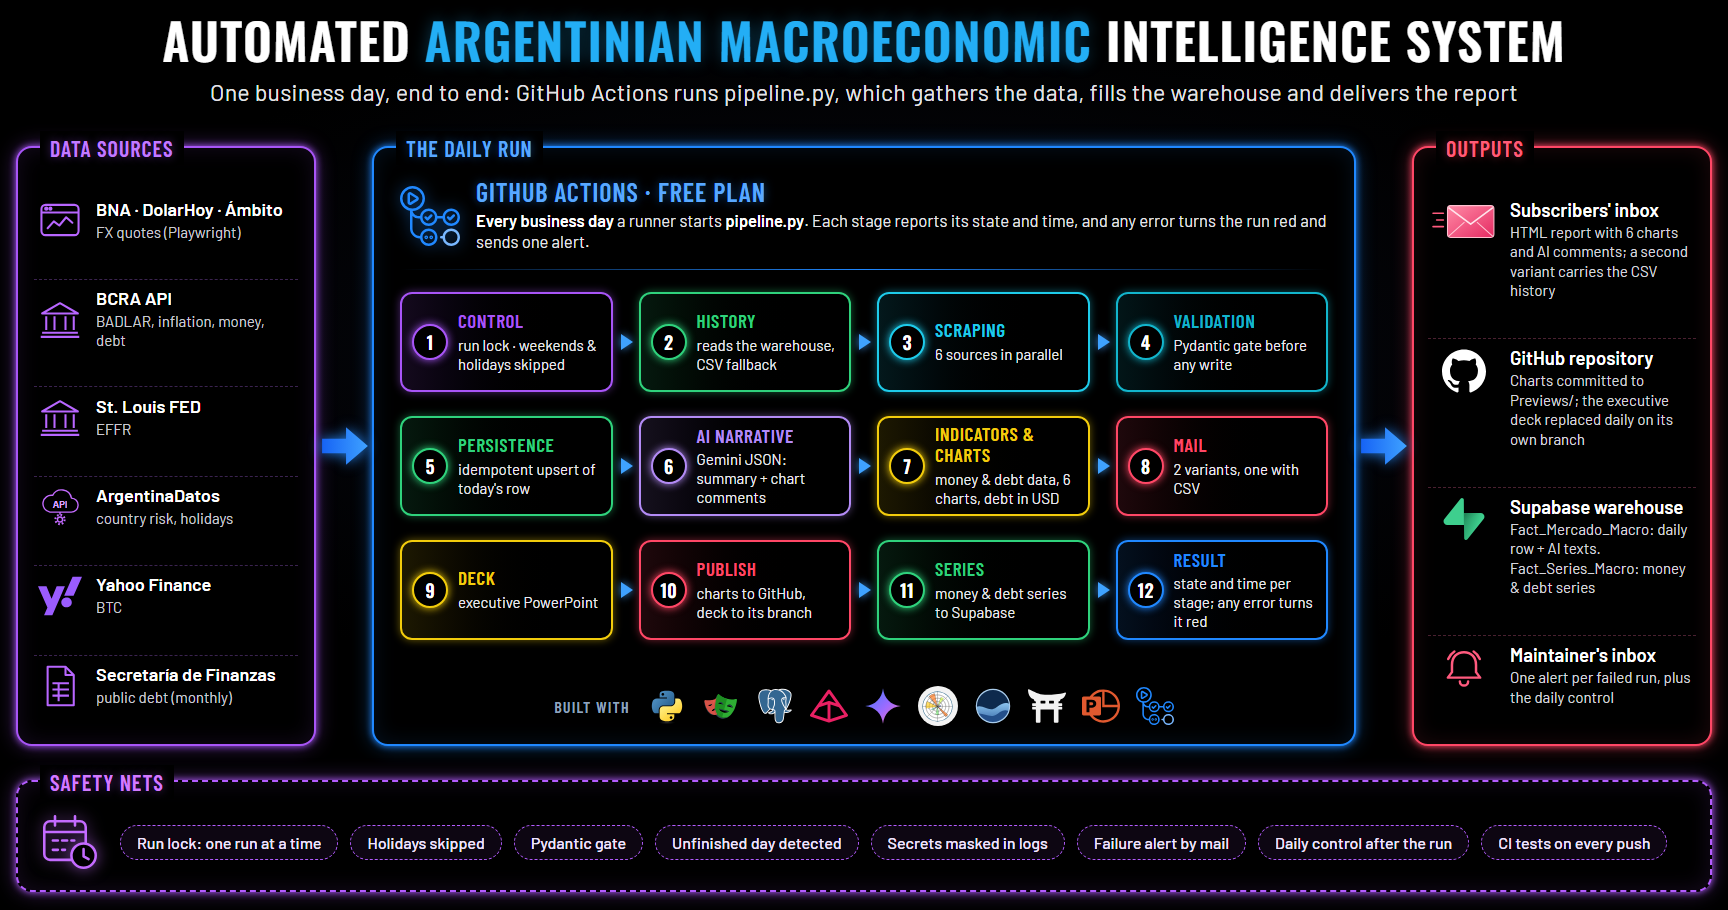
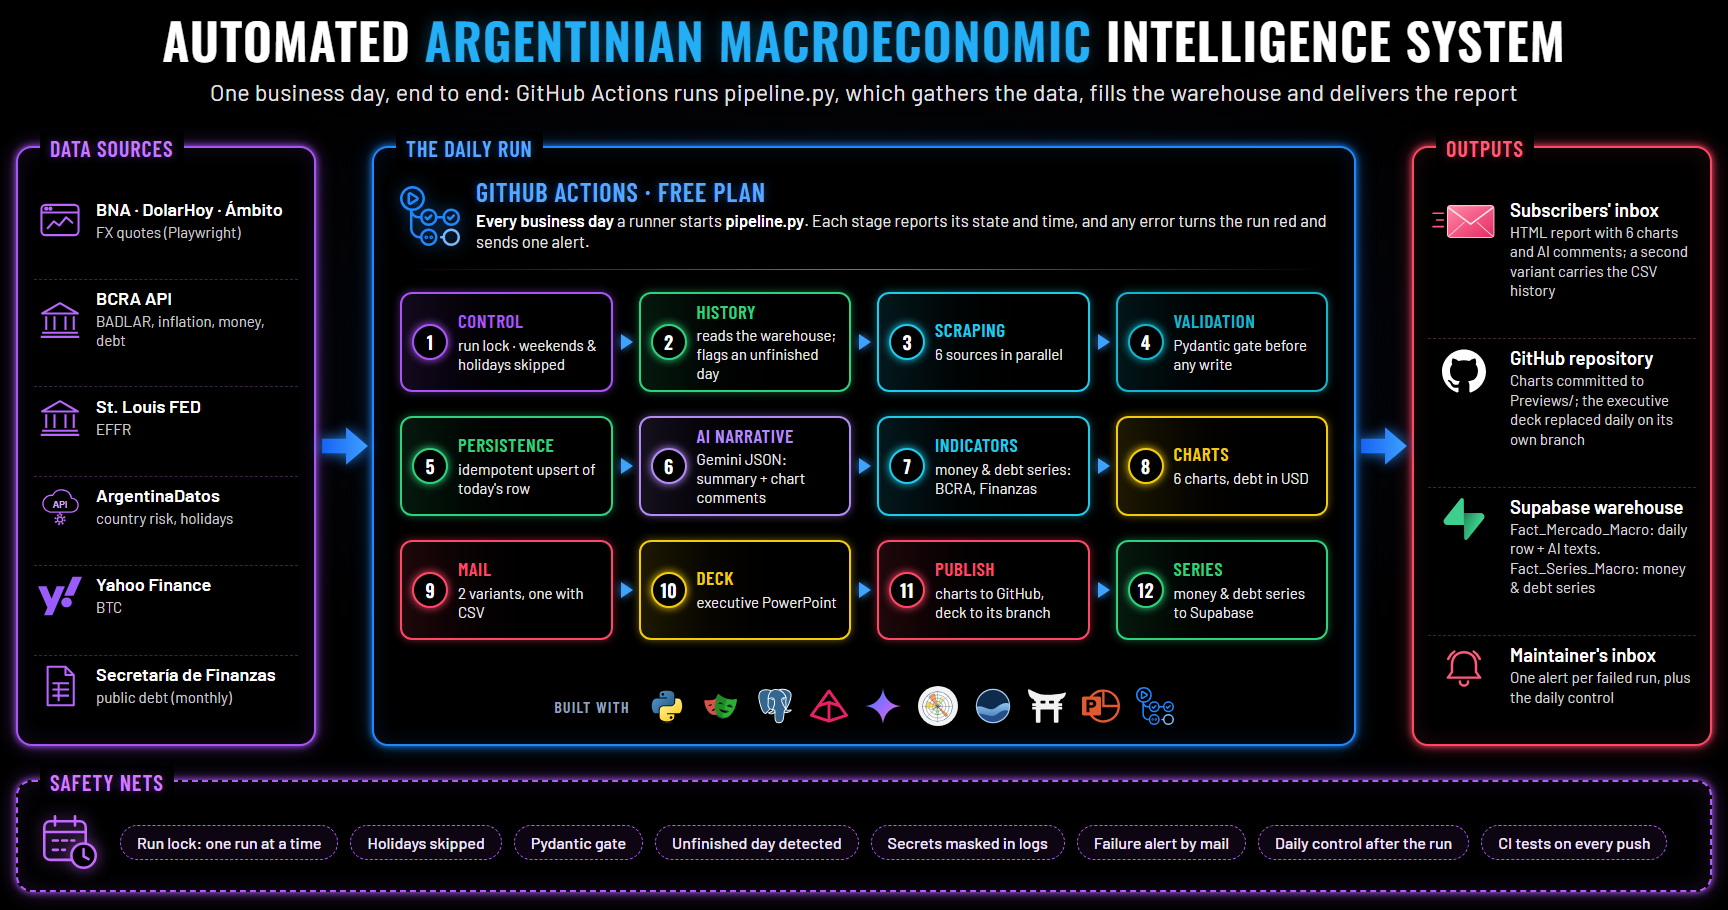
Show the twelve real stages in the daily-run diagram
Option 2 merged indicators and charts into one step and added a
"Result" step that pipeline.py does not have. It now lists the twelve
stages in the code's order and names; the per-stage state and timing
are already stated in the lane's header.

Changed region(s): [[0.2188, 0.4308, 0.7812, 0.7077], [0.4062, 0.3385, 0.5, 0.4308]]

diff --git a/Assets/arquitectura/construir.py b/Assets/arquitectura/construir.py
@@ -381,17 +381,17 @@ def opcion_1() -> str:
 ETAPAS = [
     # (número, título, detalle, color de la familia de la opción 1)
     (1, "Control", "run lock · weekends &amp; holidays skipped", "#A855F7"),
-    (2, "History", "reads the warehouse, CSV fallback", "#2FD27C"),
+    (2, "History", "reads the warehouse; flags an unfinished day", "#2FD27C"),
     (3, "Scraping", "6 sources in parallel", "#1ECBEA"),
     (4, "Validation", "Pydantic gate before any write", "#12B5CC"),
     (5, "Persistence", "idempotent upsert of today's row", "#2FD27C"),
     (6, "AI narrative", "Gemini JSON: summary + chart comments", "#B38BF5"),
-    (7, "Indicators &amp; charts", "money &amp; debt data, 6 charts, debt in USD", "#F2CC0C"),
-    (8, "Mail", "2 variants, one with CSV", "#FF4766"),
-    (9, "Deck", "executive PowerPoint", "#F2CC0C"),
-    (10, "Publish", "charts to GitHub, deck to its branch", "#FF4766"),
-    (11, "Series", "money &amp; debt series to Supabase", "#2FD27C"),
-    (12, "Result", "state and time per stage; any error turns it red", "#2088FF"),
+    (7, "Indicators", "money &amp; debt series: BCRA, Finanzas", "#1ECBEA"),
+    (8, "Charts", "6 charts, debt in USD", "#F2CC0C"),
+    (9, "Mail", "2 variants, one with CSV", "#FF4766"),
+    (10, "Deck", "executive PowerPoint", "#F2CC0C"),
+    (11, "Publish", "charts to GitHub, deck to its branch", "#FF4766"),
+    (12, "Series", "money &amp; debt series to Supabase", "#2FD27C"),
 ]
 
 FUENTES_2 = [
